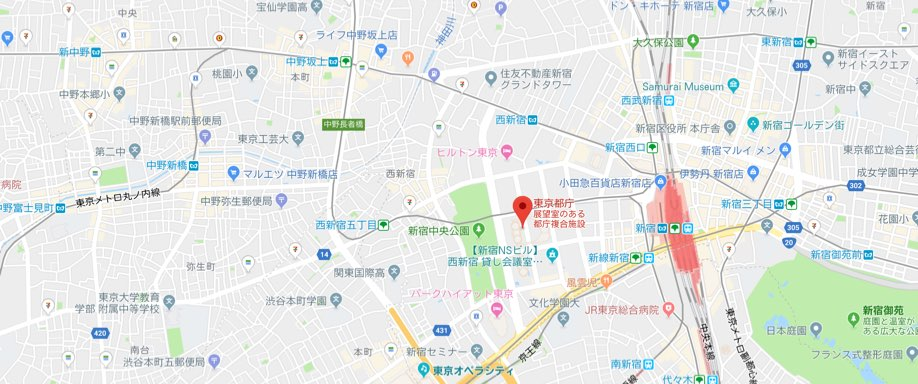
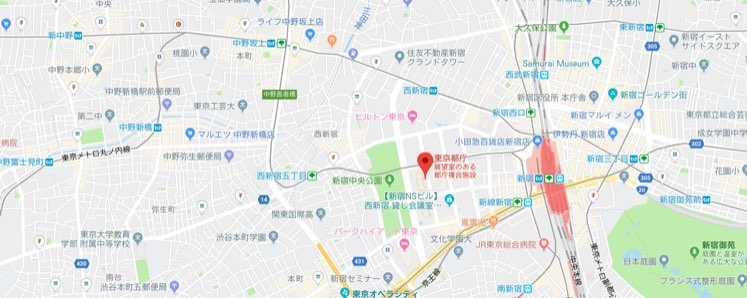
markup map and instagram

diff --git a/udemy/cafesite/style.css b/udemy/cafesite/style.css
@@ -152,3 +152,54 @@ div {
 .cafe-information-column-logo {
   padding: 0 48px;
 }
+
+.cafe-map {
+  width: 788px;
+  margin: 0 auto 56px auto;
+}
+
+.cafe-map img {
+  width: 747px;
+  display: block;
+  margin: 0 auto;
+}
+
+.cafe-inquiry {
+  width: 320px;
+  margin: 0 auto 120px auto;
+}
+
+.cafe-inquiry h5 {
+  font-size: 16px;
+  font-weight: bold;
+  text-align: center;
+  border-bottom: 1px solid #D8D8D8;
+  padding-bottom: 16px;
+  margin-bottom: 12px;
+}
+
+.cafe-inquiry p {
+  font-size: 30px;
+  text-align: center;
+  margin: 0;
+  letter-spacing: 3px;
+}
+
+.cafe-instagram {
+  text-align: center;
+  margin-bottom: 180px;
+}
+
+.cafe-instagram p {
+  font-size: 14px;
+  font-weight: bold;
+  color: #DA2E7C;
+}
+
+.footer {
+  background-color: #000000;
+}
+
+.footer p {
+  margin: 0;
+}

diff --git a/udemy/cafesite/index.html b/udemy/cafesite/index.html
@@ -142,13 +142,24 @@
       </div>
     </div>
 
-    <img src="images/map.jpg" alt="" />
+    <div class="cafe-map">
+      <img src="images/map.jpg" alt="" />
+    </div>
 
-    <img src="images/logo_instagram.jpg" alt="">
-    <p>Follow me on Instagram</p>
+    <div class="cafe-inquiry">
+      <h5>ご予約・お問い合わせはこちらまで</h5>
+      <p>080-0000-0000</p>
+    </div>
+
+    <div class="cafe-instagram">
+      <img src="images/logo_instagram.jpg" alt="">
+      <p>Follow me on Instagram</p>
+    </div>
   </div>
 
-  <p>Copyright (C) 2018 ChillCafe. All Rights Reserved.</p>
+  <div class="footer">
+    <p>Copyright (C) 2018 ChillCafe. All Rights Reserved.</p>
+  </div>
 </body>
 
 </html>
